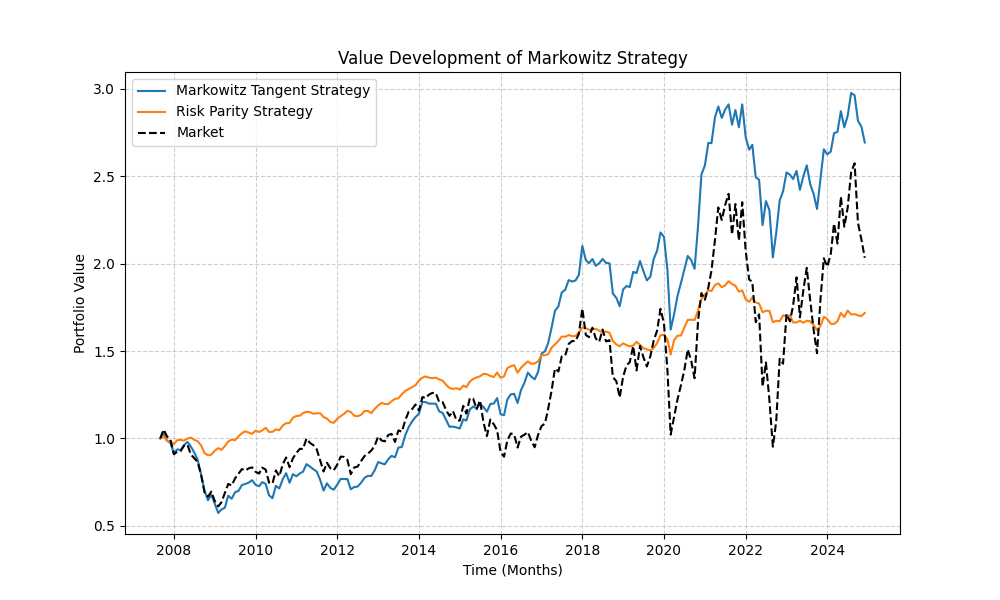
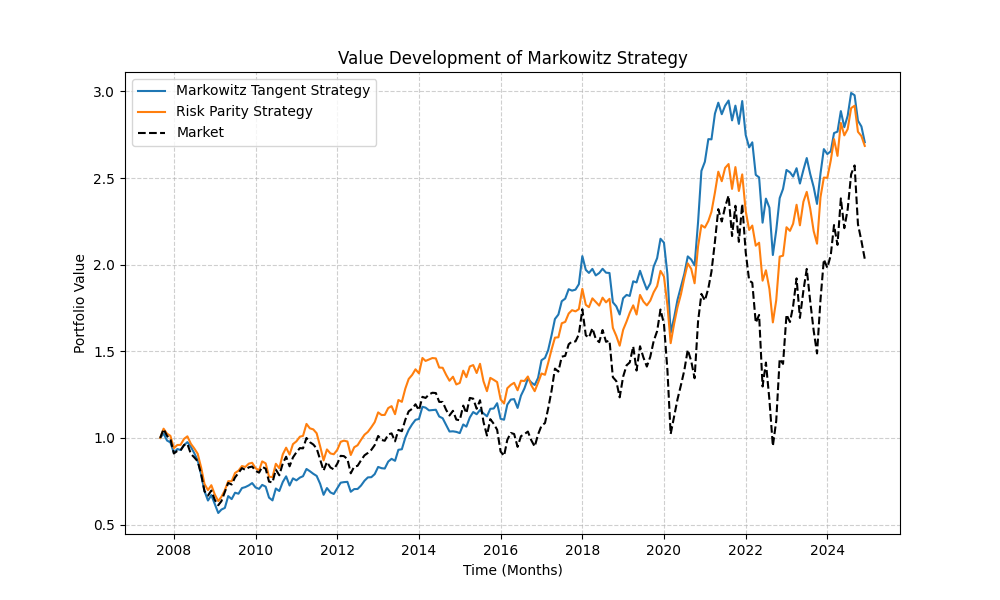
quick fixes

diff --git a/strategy_comparison_plot.py b/strategy_comparison_plot.py
@@ -12,23 +12,54 @@ from markowitz import markowitz_historical, returns_to_value
 EU_data = pd.read_csv("csv_files/long_EXPORT EU EUR.csv")
 US_data = pd.read_csv("csv_files/long_EXPORT US EUR.csv")
 
+print(EU_data['Date'])
+
+def data_prep(EU_data, US_data):
+    portfolios = list(EU_data.columns[5:36])
+
+    EU = EU_data[portfolios]
+
+    EU.columns = ["EU_" + p for p in portfolios]
+
+    US = US_data[portfolios]
+
+    US.columns = ["US_" + p for p in portfolios]
+
+    # Make a combined datafrme with all assets.
+
+    return pd.concat([EU,US],axis = 1)
+
 columns_to_add = list(EU_data.columns[2:36])
 
 # Add the risk free rate to the portfolios such that they are no longer excess returns
 
 EU_data[columns_to_add] = EU_data[columns_to_add].add(EU_data['RF'], axis=0)
+US_data[columns_to_add] = US_data[columns_to_add].add(US_data['RF'], axis=0)
 
-def result_plot(data, window, n_points):
-    data['Date'] = pd.to_datetime(data['Date'].astype(str), format='%Y%m')
+def result_plot(EU_data, US_data, window, n_points, name = "", data = "both", baseline_market = "EU", has_MOM1=True,has_MOM2=True,has_SMB1=True,has_SMB2=True,has_RM_RF1=True,has_RM_RF2=True):
+    if data == "both":
+        include_market2 = True
+    if data == "EU" or data == "US":
+        include_market2 = False
+
+    # Convert date columns - handle the YYYYMM integer format properly
+    EU_data['Date'] = pd.to_datetime(EU_data['Date'], format='%Y%m')
+    US_data['Date'] = pd.to_datetime(US_data['Date'], format='%Y%m')
+
     # Make data such that it fits with markowitz functions
-    portfolios = list(data.columns[5:36])
-    markowitz_data = data[portfolios]
+    if data == "both":
+        markowitz_data = data_prep(EU_data, US_data)
+    if data == "EU":
+        markowitz_data = EU_data[list(EU_data.columns[5:36])]
+    if data == "US":
+        markowitz_data = US_data[list(US_data.columns[5:36])]
+    
     # Use markowitz function to get markowitz return and value development of tangent strategy
     markowitz_returns = markowitz_historical(markowitz_data, window, n_points = n_points)
     markowitz_value = returns_to_value(markowitz_returns)
 
     # Use risk parity funciton to get risk parity return and value development
-    risk_parity_returns = np.array(risk_parity(EU_data,US_data,"EU","US",False,36,True,True,True,True,True,True)['return'])
+    risk_parity_returns = np.array(risk_parity(EU_data,US_data,"EU","US",include_market2 , 36, has_MOM1, has_SMB1, has_RM_RF1, has_MOM2, has_SMB2, has_RM_RF2)['return'])
     risk_parity_value = returns_to_value(risk_parity_returns)
 
     # # Use markowitz function to get markowitz return of strategy with mu_target = average return from risk parity
@@ -36,27 +67,37 @@ def result_plot(data, window, n_points):
     # markowitz_value_fixed = returns_to_value(markowitz_returns_fixed)
 
     # Take market returns and make value development
-    market_returns = np.array(data['RM_RF'].iloc[window:])
+    if baseline_market == "EU":
+        market_returns = np.array(EU_data['RM_RF'].iloc[window:])
+    if baseline_market == "US":
+        market_returns = np.array(US_data['RM_RF'].iloc[window:])
+    
     market_value = returns_to_value(market_returns)
 
     # Plot the value development of the strategies
 
     plt.figure(figsize=(10, 6))
-    plt.plot(data['Date'][-len(markowitz_value):], markowitz_value, label='Markowitz Tangent Strategy')
-    plt.plot(data['Date'][-len(risk_parity_value):], risk_parity_value, label='Risk Parity Strategy')
+    plt.plot(EU_data['Date'][-len(markowitz_value):], markowitz_value, label='Markowitz Tangent Strategy')
+    plt.plot(EU_data['Date'][-len(risk_parity_value):], risk_parity_value, label='Risk Parity Strategy')
     # plt.plot(data['Date'][-len(markowitz_value_fixed):], markowitz_value_fixed, label='Markowitz Fixed Strategy')
-    plt.plot(data['Date'][-len(market_value):], market_value, label='Market', linestyle='--', color='black')
+    plt.plot(EU_data['Date'][-len(market_value):], market_value, label='Market', linestyle='--', color='black')
     plt.xlabel('Time (Months)')
     plt.ylabel('Portfolio Value')
-    plt.title('Value Development of Markowitz Strategy')
+    plt.title(f'Value Development of Strategies: {name}')
     plt.grid(True, linestyle='--', alpha=0.6)
     plt.legend()
-    plt.savefig("result_plot.png")
-    plt.show()
+    plt.savefig(f"result_plot_{name}.png")
+    #plt.show()
     
 
 window = 36
 
-n_points = 20
+n_points = 15
 
-result_plot(EU_data, window, n_points)
+result_plot(EU_data, US_data, window, n_points, data = "both", baseline_market= "EU", name = "Both Markets")
+
+result_plot(EU_data, US_data, window, n_points, data = "EU", baseline_market= "EU", name = "EU Only")
+
+# result_plot(EU_data, US_data, window, n_points, data = "both", baseline_market= "EU", has_SMB1=False, has_SMB2= False, name = "noSMB")
+
+# result_plot(EU_data, US_data, window, n_points, data = "both", baseline_market= "EU", has_SMB1=False, has_SMB2= False, has_MOM2= False, name = "noSMB_noMOMUS")

diff --git a/risk_parity.py b/risk_parity.py
@@ -109,14 +109,16 @@ def risk_parity(csv1,csv2, market1, market2, include_market2, window,has_MOM1,ha
     #this will return a dataframe with dates and returns of the risk parity portfolio
     return view_return
 
-EU_risk_parity = risk_parity(df_EU,df_USEUR,"EU","US",True,36,True,True,True,True,True,True)
+#EU_risk_parity = risk_parity(df_EU,df_USEUR,"EU","US",True,36,True,True,True,True,True,True)
+
+
 # print("weights")
 #print(weights, len(weights))
 # print("variance")
 # print( EU_sigma_matrix, len(EU_sigma_matrix))
 #The length of the parity should be one shorter than the weights and variance, since it is the previous months weights and variance that is used for this months return
 # print("EU_risk_Parity_return")
-print(EU_risk_parity, len(EU_risk_parity))
+#print(EU_risk_parity, len(EU_risk_parity))
 # """
 # Small test to ckeck that the first and last return is as expected
 # """

diff --git a/Regression.py b/Regression.py
@@ -16,6 +16,7 @@ df_long_US = pd.read_csv("csv_files/long_EXPORT US USD.csv")
 
 # Define the target and explanatory variables
 explanatory_cols = ["RM_RF", "SMB", "MOM"]
+explanatory_cols = ["RM_RF", "SMB", "MOM"]
 
 def run_regression(df, explanatory_cols):
     # Fra chat: Coerce to numeric where possible and drop impossible rows per portfolio ---
@@ -113,7 +114,7 @@ results_df_long_USEUR = run_regression(df_long_USEUR, explanatory_cols)
 # Run regression for US USD
 results_df_long_US = run_regression(df_long_US, explanatory_cols)
 
-
+print(results_df_long_EU)
 
 ###################################
 # Print data i nyt format:
